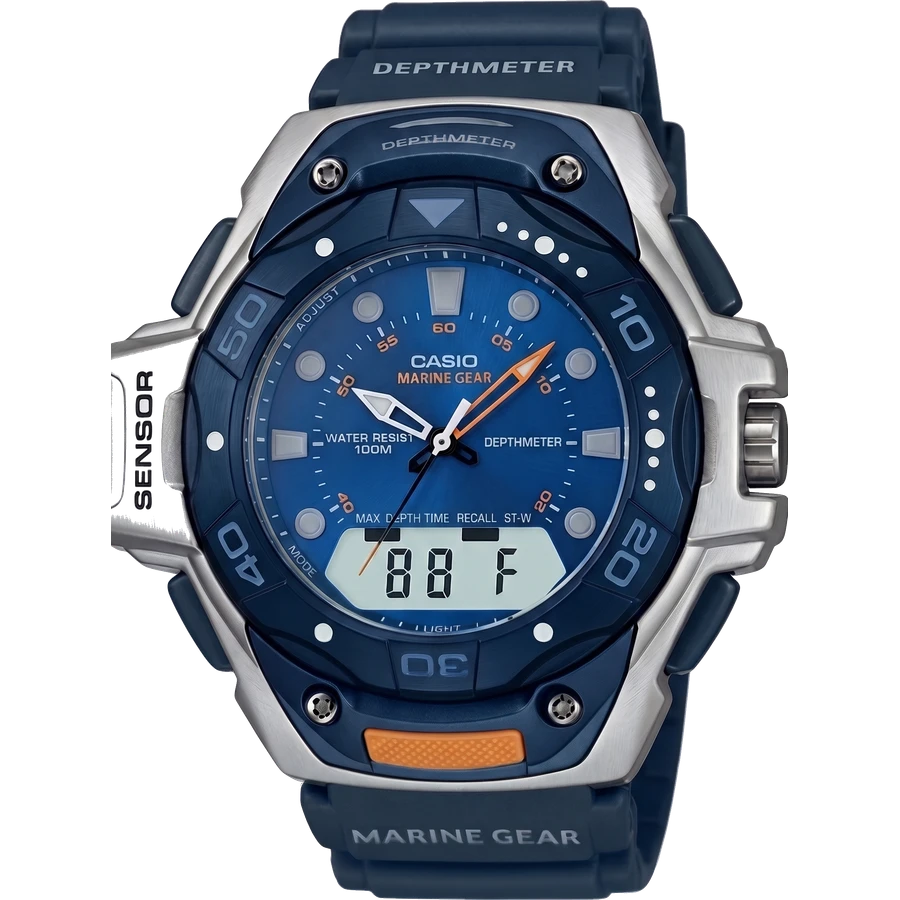
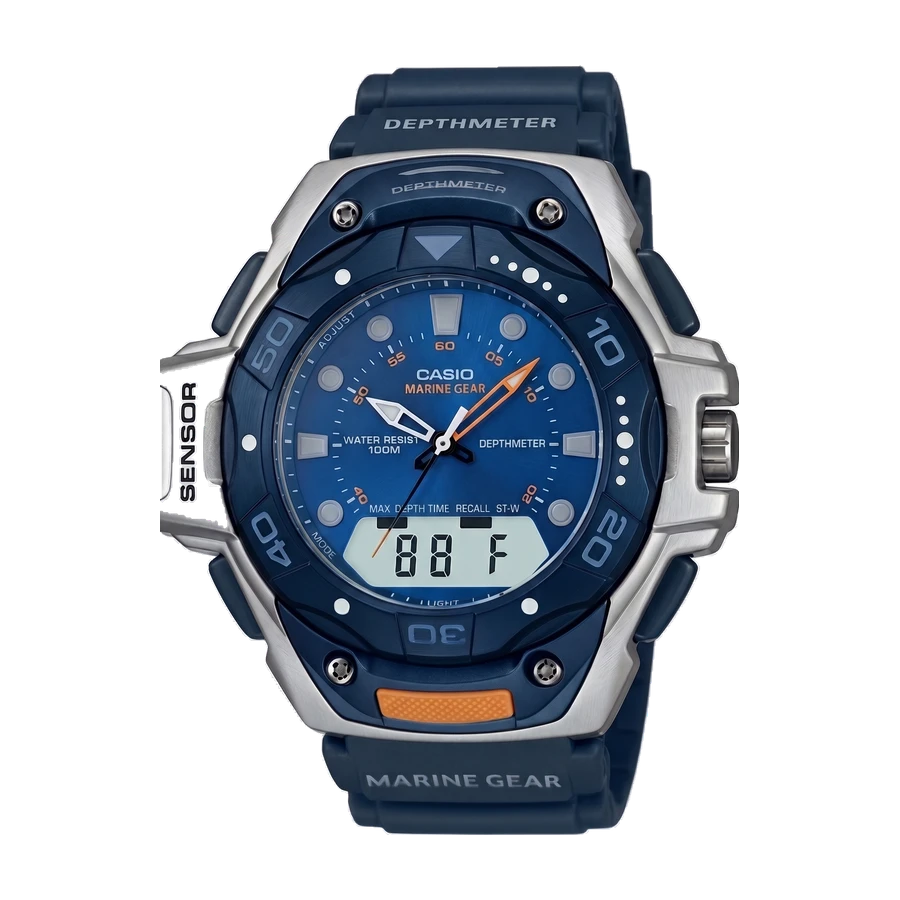
MRS-301 görselini yeniden kes: ölçek ve kenar düzeltmesi
Iki sorun vardi: saat digerlerinden %17 büyük duruyordu ve koyu temada
kenarlarinda beyaz hale görünüyordu.

ÖLÇEK: diger 24 görselin hepsinde içerik tam 770 px (900'ün %85,6'si).
trim sonrasi dogrudan 900'e yaymisim, bu yüzden iri kalmis. Ayrica
fit:'contain' küçük görseli hedefe BÜYÜTÜYOR — 770'e indirileni geri
sisiriyordu; ölçekleme yerine kenar payi ekleniyor.

HALE: fonu tam çözünürlükte renkle ayirmak mümkün degil — firçalanmis
çelikte fona uzakligi 1 olan, yani fonla birebir ayni renkte pikseller var.
Her tolerans ya haleyi birakiyor ya SENSOR muhafazasini deliyor. Çözüm:
maskeyi 1/4 ölçekte çikarmak; orada tek piksellik çakismalar ortalamada
kayboluyor. Fon düz degil degrade oldugu için dolgu sabit renge degil
komsudan komsuya adim farkina bakiyor.

Islem scripts/normalize-photo.mjs olarak depoya alindi (argümanla çalisir).
Tek bagimliligi sharp; site onu kullanmiyor, yalnizca fotograf hazirlarken
elle çalistirilan bir araç.

Claude-Session: https://claude.ai/code/session_01DDidaivs2B3H4tBARHLYJm

diff --git a/CLAUDE.md b/CLAUDE.md
@@ -181,7 +181,7 @@ metinler (`tagline`, `story`) `{ en, tr }` biçiminde. Arayüz şu an tek dil
    çıkarım gerekir → mutlaka kullanıcıya sorulacak, tahmin yazılmayacak.
 3. ~~`MRS-301-2E` görseli~~ — **tamam.** Kullanıcı GitHub üzerinden yükledi;
    fon kenarlardan taşma-doldurma ile silinip diğerleriyle aynı biçime sokuldu
-   (saydam zemin, 900×900 WebP). Betik: `scratchpad/mrsimg.mjs`.
+   (saydam zemin, 900×900 WebP). Betik: `scripts/normalize-photo.mjs`.
    Üretim bilgisi `source.imageFrom` alanında duruyor; **ön yüzde
    gösterilmiyor** (`sourceNote` yalnızca `productUrl` + `fetchedAt` basıyor).
 4. **`MRS-301-2E` satın alma tarihi** tabloda yok — kullanıcıyla konuşulacak.
@@ -239,3 +239,4 @@ metinler (`tagline`, `story`) `{ en, tr }` biçiminde. Arayüz şu an tek dil
 | `node scripts/import-casio-sheet.mjs <csv> [--reset]` | Casio Collection tablosundan içe aktarır |
 | `node scripts/log-wear.mjs "<saat>" [tarih] ["not"]` | Rotasyon kaydı ekler |
 | `node scripts/build.mjs [--private]` | `dist/` hazırlar (hassas alanları siler) |
+| `node scripts/normalize-photo.mjs <girdi> <çıktı.webp>` | Fotoğrafın fonunu siler, 900×900 WebP yazar (`npm i sharp` gerekir) |
